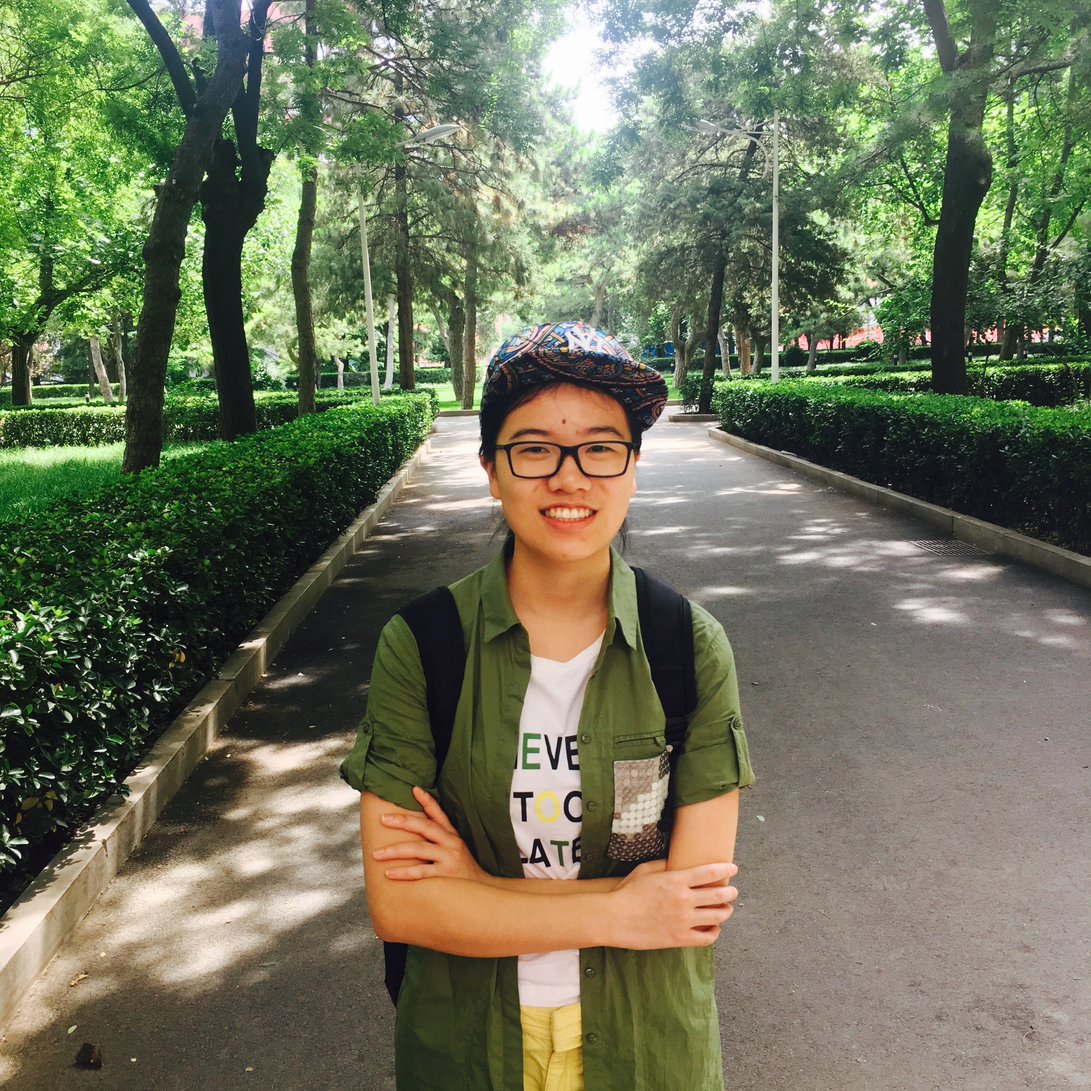
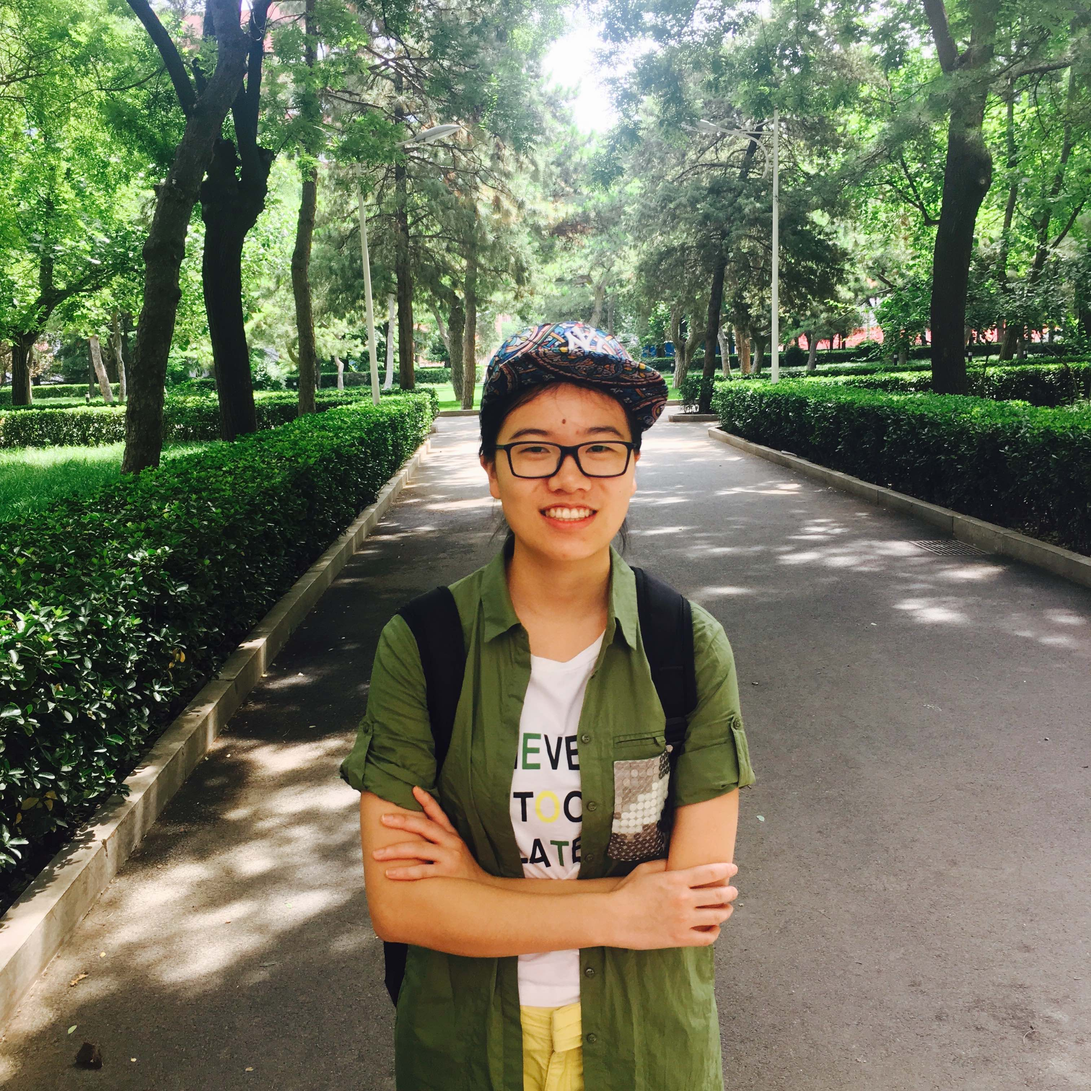
New members and compress large member photos

diff --git a/content/members/uljad-berdica.md b/content/members/uljad-berdica.md
@@ -1,0 +1,14 @@
+---
+name: "Uljad Berdica"
+image: "uljad-berdica.jpg"
+yearJoined: 2023
+info: "Co-adv: Perla Maiolino"
+
+# See content/members/_index.md for valid roles
+role: DPhil Students
+
+website: https://uljad.com
+twitterHandle: uljadb99
+googleScholar: https://scholar.google.com/citations?user=GS2oaF0AAAAJ&hl=en&oi=ao
+githubHandle: uljadberdica1000
+---

diff --git a/content/members/michael-beukman.md b/content/members/michael-beukman.md
@@ -1,0 +1,14 @@
+---
+name: "Michael Beukman"
+image: "michael-beukman.jpg"
+yearJoined: 2023
+info:
+
+# See content/members/_index.md for valid roles
+role: DPhil Students
+
+website: https://michaelbeukman.com
+twitterHandle: mcbeukman
+googleScholar: https://scholar.google.com/citations?user=CaRgqC4AAAAJ&hl=en
+githubHandle: Michael-Beukman
+---

diff --git a/content/members/alex-goldie.md b/content/members/alex-goldie.md
@@ -1,0 +1,14 @@
+---
+name: "Alex Goldie"
+image: "alex-goldie.png"
+yearJoined: 2023
+info: "Co-adv: Shimon Whiteson"
+
+# See content/members/_index.md for valid roles
+role: DPhil Students
+
+website:
+twitterHandle: AlexDGoldie
+googleScholar:
+githubHandle: AlexGoldie
+---

diff --git a/content/members/ola-kalisz.md b/content/members/ola-kalisz.md
@@ -1,9 +1,9 @@
 ---
 name: "Ola Kalisz"
-image: "ola-kalisz.png"
+image: "ola-kalisz.jpg"
 yearJoined: 2022
 role: DPhil Students
-info: "Co-Supervisor: Alicia Higueruelo (Exscientia)"
+info: "Co-adv: Alicia Higueruelo (Exscientia)"
 
 website:
 twitterHandle: OlaKalisz8

diff --git a/content/members/matthew-jackson.md b/content/members/matthew-jackson.md
@@ -4,7 +4,7 @@ name: "Matthew Jackson"
 image: "matthew-jackson.jpg"
 yearJoined: 2022
 role: DPhil Students
-info: "Co-Supervisor: Shimon Whiteson"
+info: "Co-adv: Shimon Whiteson"
 
 website: https://matthewtjackson.com
 twitterHandle: JacksonMattT

diff --git a/content/members/andrei-lupu.md b/content/members/andrei-lupu.md
@@ -2,7 +2,7 @@
 name: "Andrei Lupu"
 image: "andrei-lupu.jpeg"
 yearJoined: 2022
-info: "Co-Supervisor: Roberta Raileanu"
+info: "Co-adv: Roberta Raileanu"
 
 # See content/members/_index.md for valid roles
 role: DPhil Students

diff --git a/content/members/ben-ellis.md b/content/members/ben-ellis.md
@@ -2,7 +2,7 @@
 name: "Ben Ellis"
 image: "ben-ellis.jpg"
 yearJoined: 2021
-info: "Co-Supervisor: Shimon Whiteson"
+info: "Co-adv: Shimon Whiteson"
 
 # See content/members/_index.md for valid roles
 role: DPhil Students

diff --git a/content/members/silvia-sapora.md b/content/members/silvia-sapora.md
@@ -3,7 +3,7 @@ name: "Silvia Sapora"
 image: "silvia-sapora.jpg"
 yearJoined: 2022
 role: DPhil Students
-info: "Co-Supervisor: Yee Whye Teh"
+info: "Co-adv: Yee Whye Teh"
 
 website:
 twitterHandle: silviasapora

diff --git a/content/members/matthias-hericks.md b/content/members/matthias-hericks.md
@@ -1,6 +1,6 @@
 ---
 name: "Matthias Hericks"
-image: "matthias-hericks.png"
+image: "matthias-hericks.jpg"
 yearJoined: 2021
 
 # See content/members/_index.md for valid roles

diff --git a/content/members/jack-parkerholder.md b/content/members/jack-parkerholder.md
@@ -1,6 +1,6 @@
 ---
 name: "Jack Parker-Holder"
-image: "jack-parkerholder.png"
+image: "jack-parkerholder.jpg"
 yearJoined:
 
 # See content/members/_index.md for valid roles
